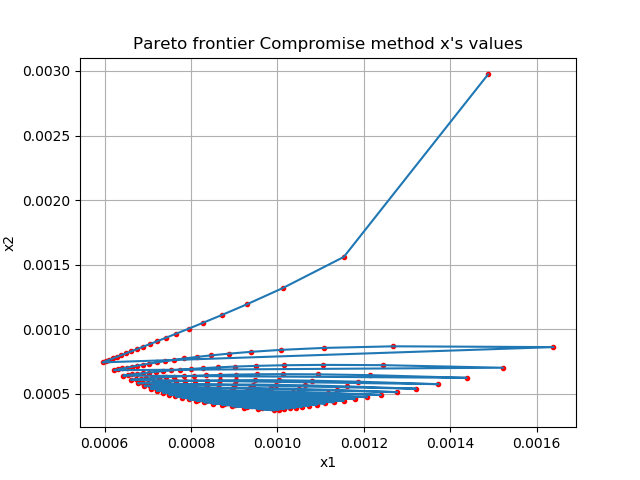
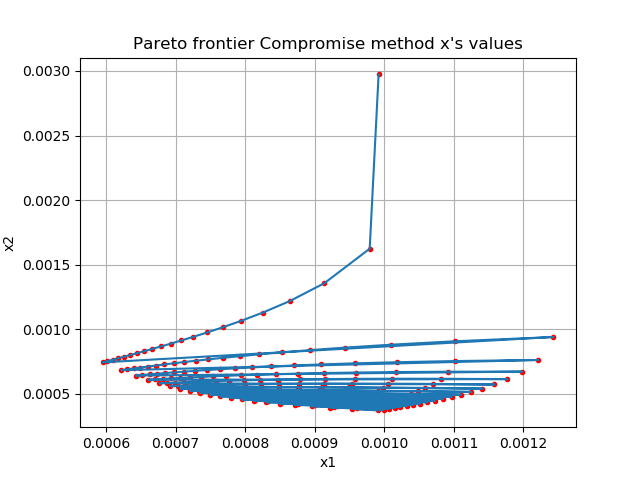
Modified B

diff --git a/P3/.ipynb_checkpoints/main_compromise-checkpoint.py b/P3/.ipynb_checkpoints/main_compromise-checkpoint.py
@@ -21,7 +21,7 @@ if ('constraints.csv' in files)==False or ('objectives.csv' in files)==False:
 obj_file = pandas.read_csv('objectives.csv')
 c_file = pandas.read_csv('constraints.csv')
 A = obj_file.columns.tolist()
-B = sum(1 for line in obj_file)
+B = len(obj_file)
 print(obj_file)
 print(c_file)
 print(A)

diff --git a/P3/.ipynb_checkpoints/main_weighting-checkpoint.py b/P3/.ipynb_checkpoints/main_weighting-checkpoint.py
@@ -21,7 +21,7 @@ if ('constraints.csv' in files)==False or ('objectives.csv' in files)==False:
 obj_file = pandas.read_csv('objectives.csv')
 c_file = pandas.read_csv('constraints.csv')
 A = obj_file.columns.tolist()
-B = sum(1 for line in obj_file)
+B = len(obj_file)
 print(obj_file)
 print(c_file)
 print(A)

diff --git a/P3/main_compromise.py b/P3/main_compromise.py
@@ -21,7 +21,7 @@ if ('constraints.csv' in files)==False or ('objectives.csv' in files)==False:
 obj_file = pandas.read_csv('objectives.csv')
 c_file = pandas.read_csv('constraints.csv')
 A = obj_file.columns.tolist()
-B = sum(1 for line in obj_file)
+B = len(obj_file)
 print(obj_file)
 print(c_file)
 print(A)

diff --git a/P3/main_weighting.py b/P3/main_weighting.py
@@ -21,7 +21,7 @@ if ('constraints.csv' in files)==False or ('objectives.csv' in files)==False:
 obj_file = pandas.read_csv('objectives.csv')
 c_file = pandas.read_csv('constraints.csv')
 A = obj_file.columns.tolist()
-B = sum(1 for line in obj_file)
+B = len(obj_file)
 print(obj_file)
 print(c_file)
 print(A)
